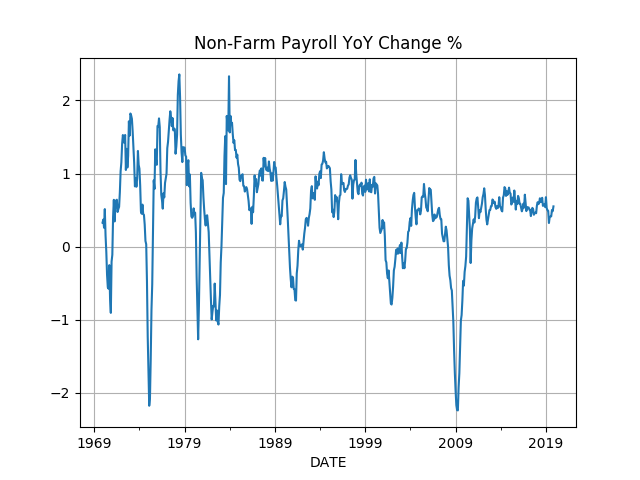
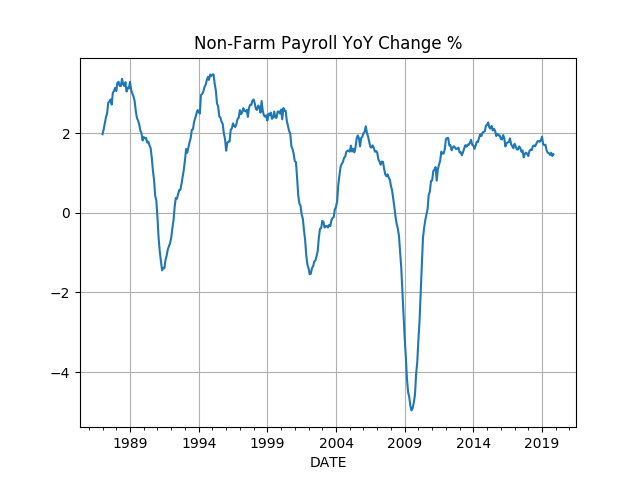
-

diff --git a/en/2019/05/stats.md b/en/2019/05/stats.md
@@ -142,28 +142,28 @@ import pandas as pd, datetime
 from pandas_datareader import data
 
 today = datetime.datetime.now()
-start=datetime.datetime(1950, 1, 1)
+start=datetime.datetime(1986, 1, 1)
 end=datetime.datetime(today.year, today.month, today.day)
 cols = ['PAYEMS']
 df = data.DataReader(cols, 'fred', start, end)
-df['nfpyoy'] = (df.PAYEMS - df.PAYEMS.shift(4)) / df.PAYEMS.shift(4) * 100.0
+df['nfpyoy'] = (df.PAYEMS - df.PAYEMS.shift(12)) / df.PAYEMS.shift(12) * 100.0
 print (df.tail(7))
 ```
 
 ```text
             PAYEMS    nfpyoy
 DATE                        
-2019-05-01  151074  0.323401
-2019-06-01  151252  0.404267
-2019-07-01  151418  0.412478
-2019-08-01  151637  0.413874
-2019-09-01  151830  0.500417
-2019-10-01  151986  0.485283
-2019-11-01  152252  0.550793
+2019-05-01  151074  1.565767
+2019-06-01  151252  1.506641
+2019-07-01  151418  1.496799
+2019-08-01  151637  1.451825
+2019-09-01  151830  1.507605
+2019-10-01  151986  1.424072
+2019-11-01  152252  1.468863
 ```
 
 ```python
-df.tail(600).nfpyoy.plot()
+df.nfpyoy.plot()
 plt.grid(True)
 plt.title('Non-Farm Payroll YoY Change %')
 plt.savefig('nfp.png')
